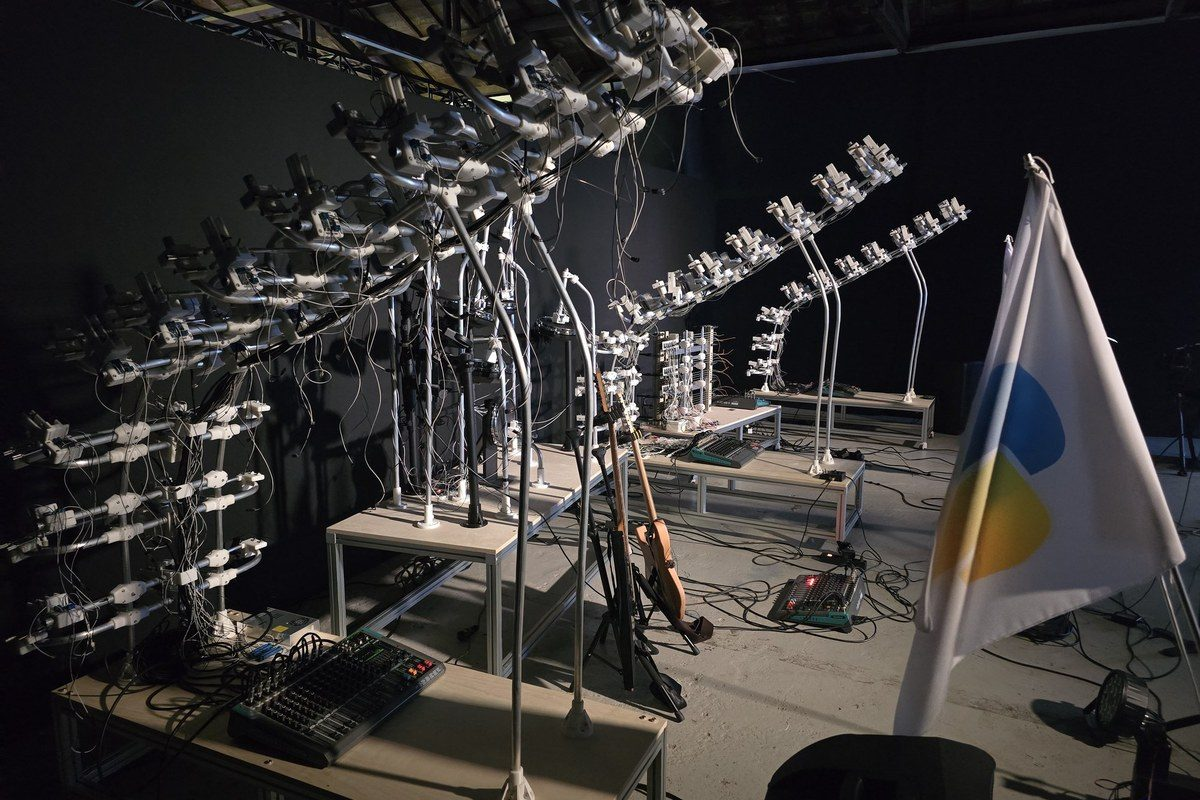
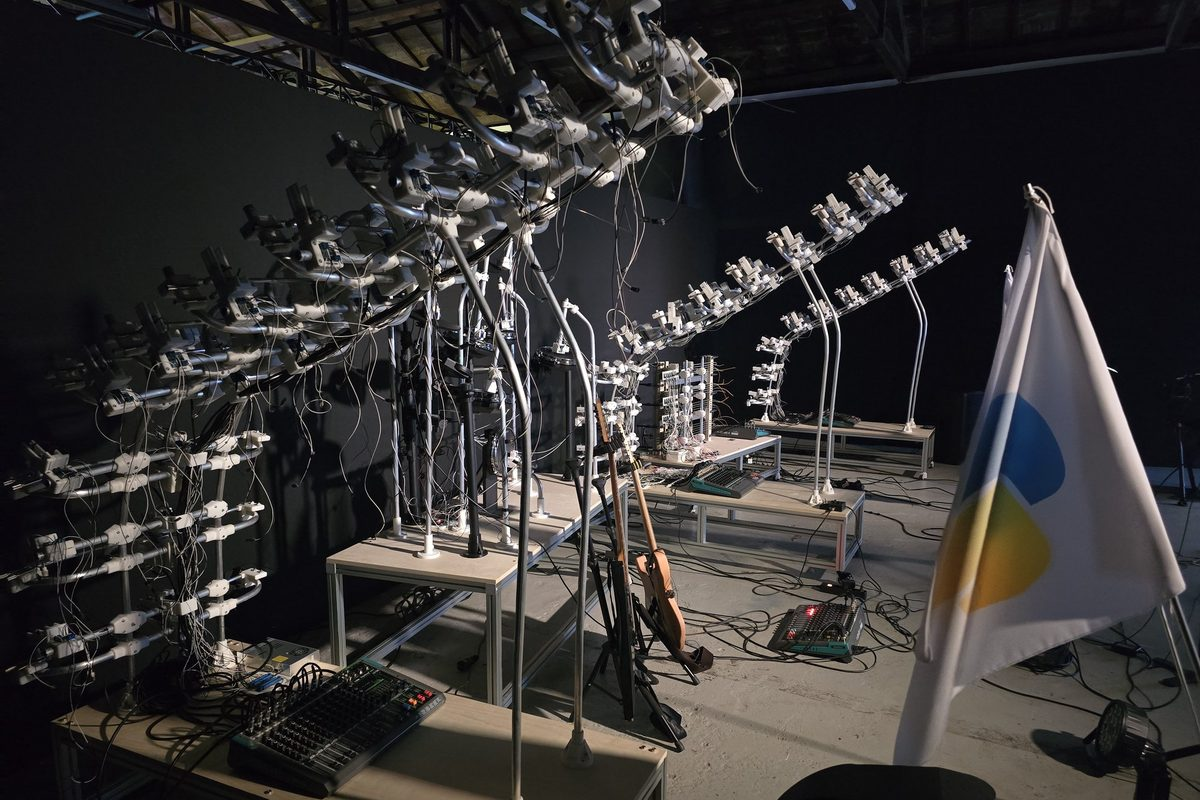
메인: 하이웨이투헬 썸네일 조금 아래로

diff --git a/index.html b/index.html
@@ -20,7 +20,7 @@ if (screen.width < 768) document.querySelector('meta[name=viewport]').setAttribu
 <button class="m-top" aria-label="맨 위로"><svg viewBox="0 0 44 44" aria-hidden="true"><path d="M44 0H0v44h44" style="stroke-width:1"/><path d="M30.588 27.233L22 18.366l-8.588 8.867-1.078-1.043L22 16.21l9.666 9.98-1.078 1.043z" style="stroke-width:1.5"/></svg></button>
 <main id="main" class="c home">
 <div class="years"><div class="grid2">
-  <a class="tile" href="highway-to-hell.html"><img src="assets/img/thumbs/highway-to-hell.jpg?v=2" width="1200" height="800" alt="Highway to Hell: 사라질 기계들을 위한 마지막 파티" decoding="async"><span class="cap"><span class="t">Highway to Hell: 사라질 기계들을 위한 마지막 파티</span><span class="y">2026</span></span></a>
+  <a class="tile" href="highway-to-hell.html"><img src="assets/img/thumbs/highway-to-hell.jpg?v=3" width="1200" height="800" alt="Highway to Hell: 사라질 기계들을 위한 마지막 파티" decoding="async"><span class="cap"><span class="t">Highway to Hell: 사라질 기계들을 위한 마지막 파티</span><span class="y">2026</span></span></a>
   <a class="tile" href="lightgrass-01.html"><img src="assets/img/thumbs/lightgrass-01.jpg" width="1200" height="800" alt="Lightgrass 01" decoding="async"><span class="cap"><span class="t">Lightgrass 01</span><span class="y">2025</span></span></a>
   <a class="tile" href="susu-sangseung.html"><img src="assets/img/thumbs/susu-sangseung.jpg" width="1200" height="800" alt="수수상승 흑환재생 手手相承 黑環再生" loading="lazy" decoding="async"><span class="cap"><span class="t">수수상승 흑환재생 手手相承 黑環再生</span><span class="y">2025</span></span></a>
   <a class="tile" href="sensory-relay-01.html"><img src="assets/img/thumbs/sensory-relay-01.jpg" width="1200" height="800" alt="Sensory Relay 01" loading="lazy" decoding="async"><span class="cap"><span class="t">Sensory Relay 01</span><span class="y">2024</span></span></a>

diff --git a/_build/custom/index.html b/_build/custom/index.html
@@ -1,5 +1,5 @@
 <div class="years"><div class="grid2">
-  <a class="tile" href="highway-to-hell.html"><img src="assets/img/thumbs/highway-to-hell.jpg?v=2" width="1200" height="800" alt="Highway to Hell: 사라질 기계들을 위한 마지막 파티" decoding="async"><span class="cap"><span class="t">Highway to Hell: 사라질 기계들을 위한 마지막 파티</span><span class="y">2026</span></span></a>
+  <a class="tile" href="highway-to-hell.html"><img src="assets/img/thumbs/highway-to-hell.jpg?v=3" width="1200" height="800" alt="Highway to Hell: 사라질 기계들을 위한 마지막 파티" decoding="async"><span class="cap"><span class="t">Highway to Hell: 사라질 기계들을 위한 마지막 파티</span><span class="y">2026</span></span></a>
   <a class="tile" href="lightgrass-01.html"><img src="assets/img/thumbs/lightgrass-01.jpg" width="1200" height="800" alt="Lightgrass 01" decoding="async"><span class="cap"><span class="t">Lightgrass 01</span><span class="y">2025</span></span></a>
   <a class="tile" href="susu-sangseung.html"><img src="assets/img/thumbs/susu-sangseung.jpg" width="1200" height="800" alt="수수상승 흑환재생 手手相承 黑環再生" loading="lazy" decoding="async"><span class="cap"><span class="t">수수상승 흑환재생 手手相承 黑環再生</span><span class="y">2025</span></span></a>
   <a class="tile" href="sensory-relay-01.html"><img src="assets/img/thumbs/sensory-relay-01.jpg" width="1200" height="800" alt="Sensory Relay 01" loading="lazy" decoding="async"><span class="cap"><span class="t">Sensory Relay 01</span><span class="y">2024</span></span></a>
